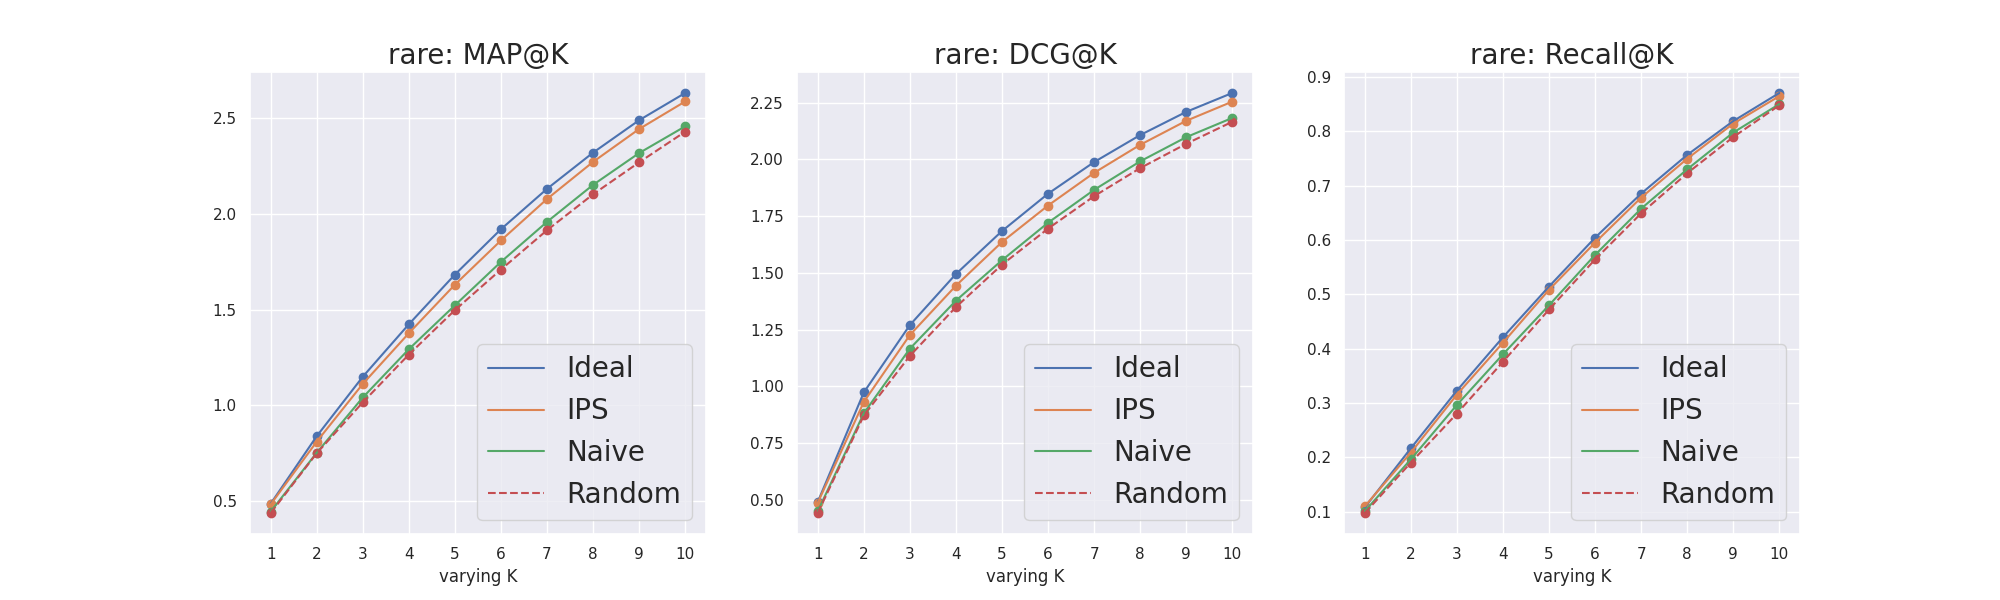
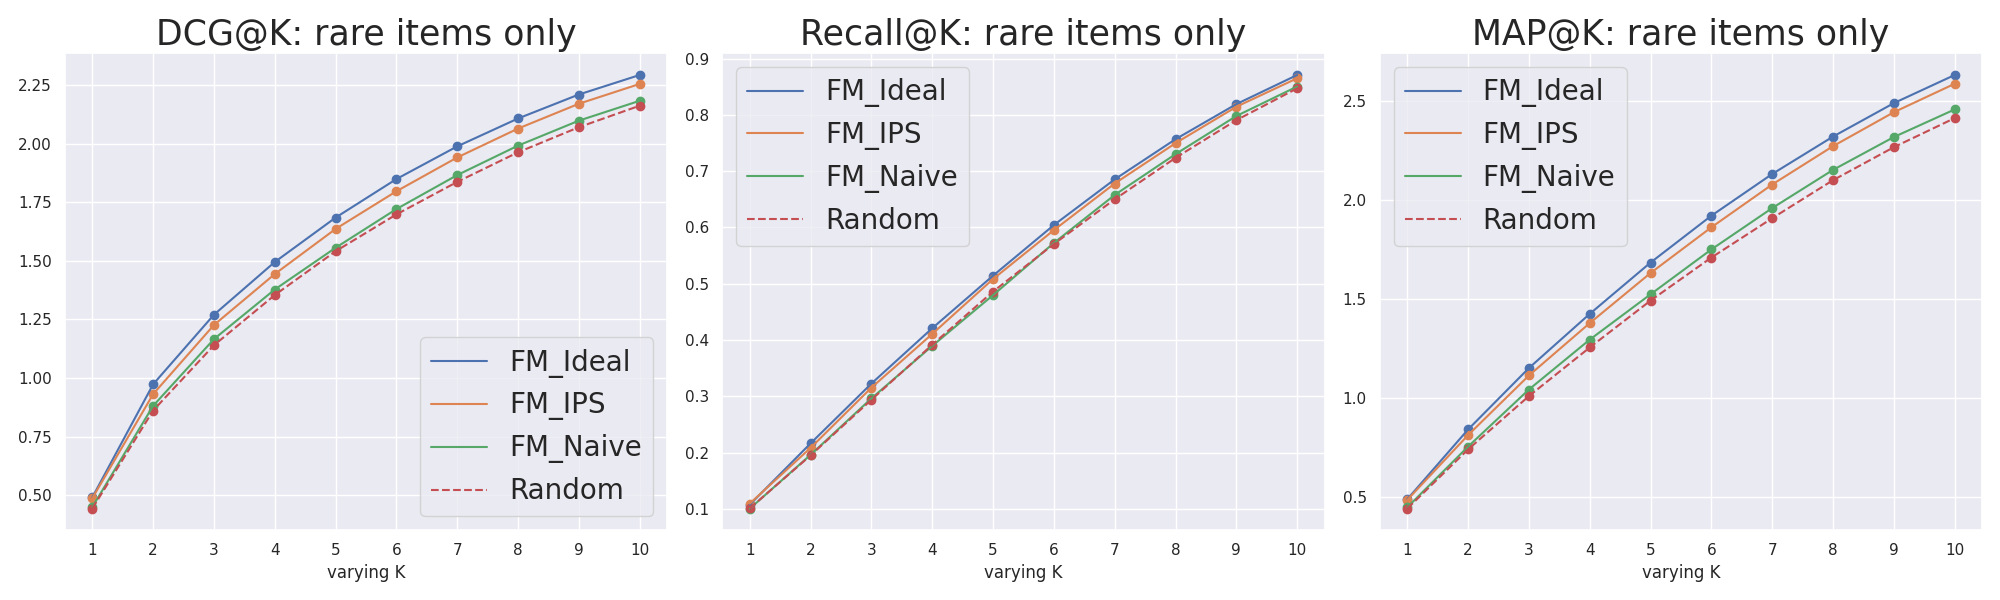
update: update Visualizer class

diff --git a/utils/plot.py b/utils/plot.py
@@ -44,12 +44,16 @@ class Visualizer:
             plt.figure(figsize=(20, 6))
             for i, metric in enumerate(self.metrics):
                 plt.subplot(1, len(self.metrics), i + 1)
-                plt.title(f"{metric}@K", fontdict=dict(size=20))
+                plt.title(f"{metric}@K", fontdict=dict(size=25))
 
                 for estimator in self.estimators:
                     column = f"{model_name}_{estimator}_all_{metric}@K"
                     plt.scatter(self.K, self.result_df[column], marker="o")
-                    plt.plot(self.K, self.result_df[column], label=estimator)
+                    plt.plot(
+                        self.K,
+                        self.result_df[column],
+                        label=f"{model_name}_{estimator}",
+                    )
 
                 column = f"Random_all_{metric}@K"
                 plt.scatter(self.K, self.result_df[column], marker="o")
@@ -64,6 +68,7 @@ class Visualizer:
                 plt.xlabel("varying K")
                 plt.legend(loc="best", fontsize=20)
 
+            plt.tight_layout()
             plt.show()
             plt.savefig(self.log_path / f"{model_name}_metrics.png")
 
@@ -78,18 +83,35 @@ class Visualizer:
 
         for i, estimator in enumerate(self.estimators):
             plt.subplot(1, len(self.estimators), i + 1)
-            plt.title(f"{estimator}: FM vs MF", fontdict=dict(size=20))
+            plt.title(
+                f"{metric}@K: FM_{estimator} vs MF_{estimator}",
+                fontdict=dict(size=25),
+            )
 
             for model_name in ["FM", "MF"]:
                 column = f"{model_name}_{estimator}_all_{metric}@K"
                 plt.scatter(self.K, self.result_df[column], marker="o")
-                plt.plot(self.K, self.result_df[column], label=model_name)
+                plt.plot(
+                    self.K,
+                    self.result_df[column],
+                    label=f"{model_name}_{estimator}",
+                )
+
+            column = f"Random_all_{metric}@K"
+            plt.scatter(self.K, self.result_df[column], marker="o", color="r")
+            plt.plot(
+                self.K,
+                self.result_df[column],
+                label="Random",
+                linestyle="--",
+                color="r",
+            )
 
             plt.xticks(self.K)
             plt.xlabel("varying K")
-            plt.ylabel(f"{metric}@K")
             plt.legend(loc="best", fontsize=20)
 
+        plt.tight_layout()
         plt.show()
         plt.savefig(self.log_path / f"{metric}_vs_model.png")
 
@@ -106,12 +128,18 @@ class Visualizer:
 
         for i, metric in enumerate(self.metrics):
             plt.subplot(1, len(self.metrics), i + 1)
-            plt.title(f"{frequency}: {metric}@K", fontdict=dict(size=20))
+            plt.title(
+                f"{metric}@K: {frequency} items only", fontdict=dict(size=25)
+            )
 
             for estimator in self.estimators:
                 column = f"{model_name}_{estimator}_{frequency}_{metric}@K"
                 plt.scatter(self.K, self.result_df[column], marker="o")
-                plt.plot(self.K, self.result_df[column], label=estimator)
+                plt.plot(
+                    self.K,
+                    self.result_df[column],
+                    label=f"{model_name}_{estimator}",
+                )
 
             column = f"Random_{frequency}_{metric}@K"
             plt.scatter(self.K, self.result_df[column], marker="o")
@@ -123,6 +151,7 @@ class Visualizer:
             plt.xlabel("varying K")
             plt.legend(loc="best", fontsize=20)
 
+        plt.tight_layout()
         plt.show()
         plt.savefig(self.log_path / "metrics_per_frequency.png")
 
@@ -146,16 +175,18 @@ class Visualizer:
         plt.axhline(
             random_metric["SNIPS_DCG"],
             linestyle="--",
-            color="red",
+            color="r",
             label="Random",
         )
         plt.xticks([0, 1], ["FM", "MF"])
         plt.xlabel("varying model")
-        plt.ylabel(f"SNIPS {metric_name} value")
+        plt.ylabel(f"SNIPS of {metric_name} value")
         plt.legend()
         plt.title(
-            "Self Normalized Inversed Propensity Estimator of "
-            + f"{metric_name} per Model"
+            "Self-Normalized IPS Estimator of " + f"{metric_name} per Model",
+            fontdict=dict(size=22),
         )
+
+        plt.tight_layout()
         plt.show()
         plt.savefig(self.log_path / "snips_estimator.png")
